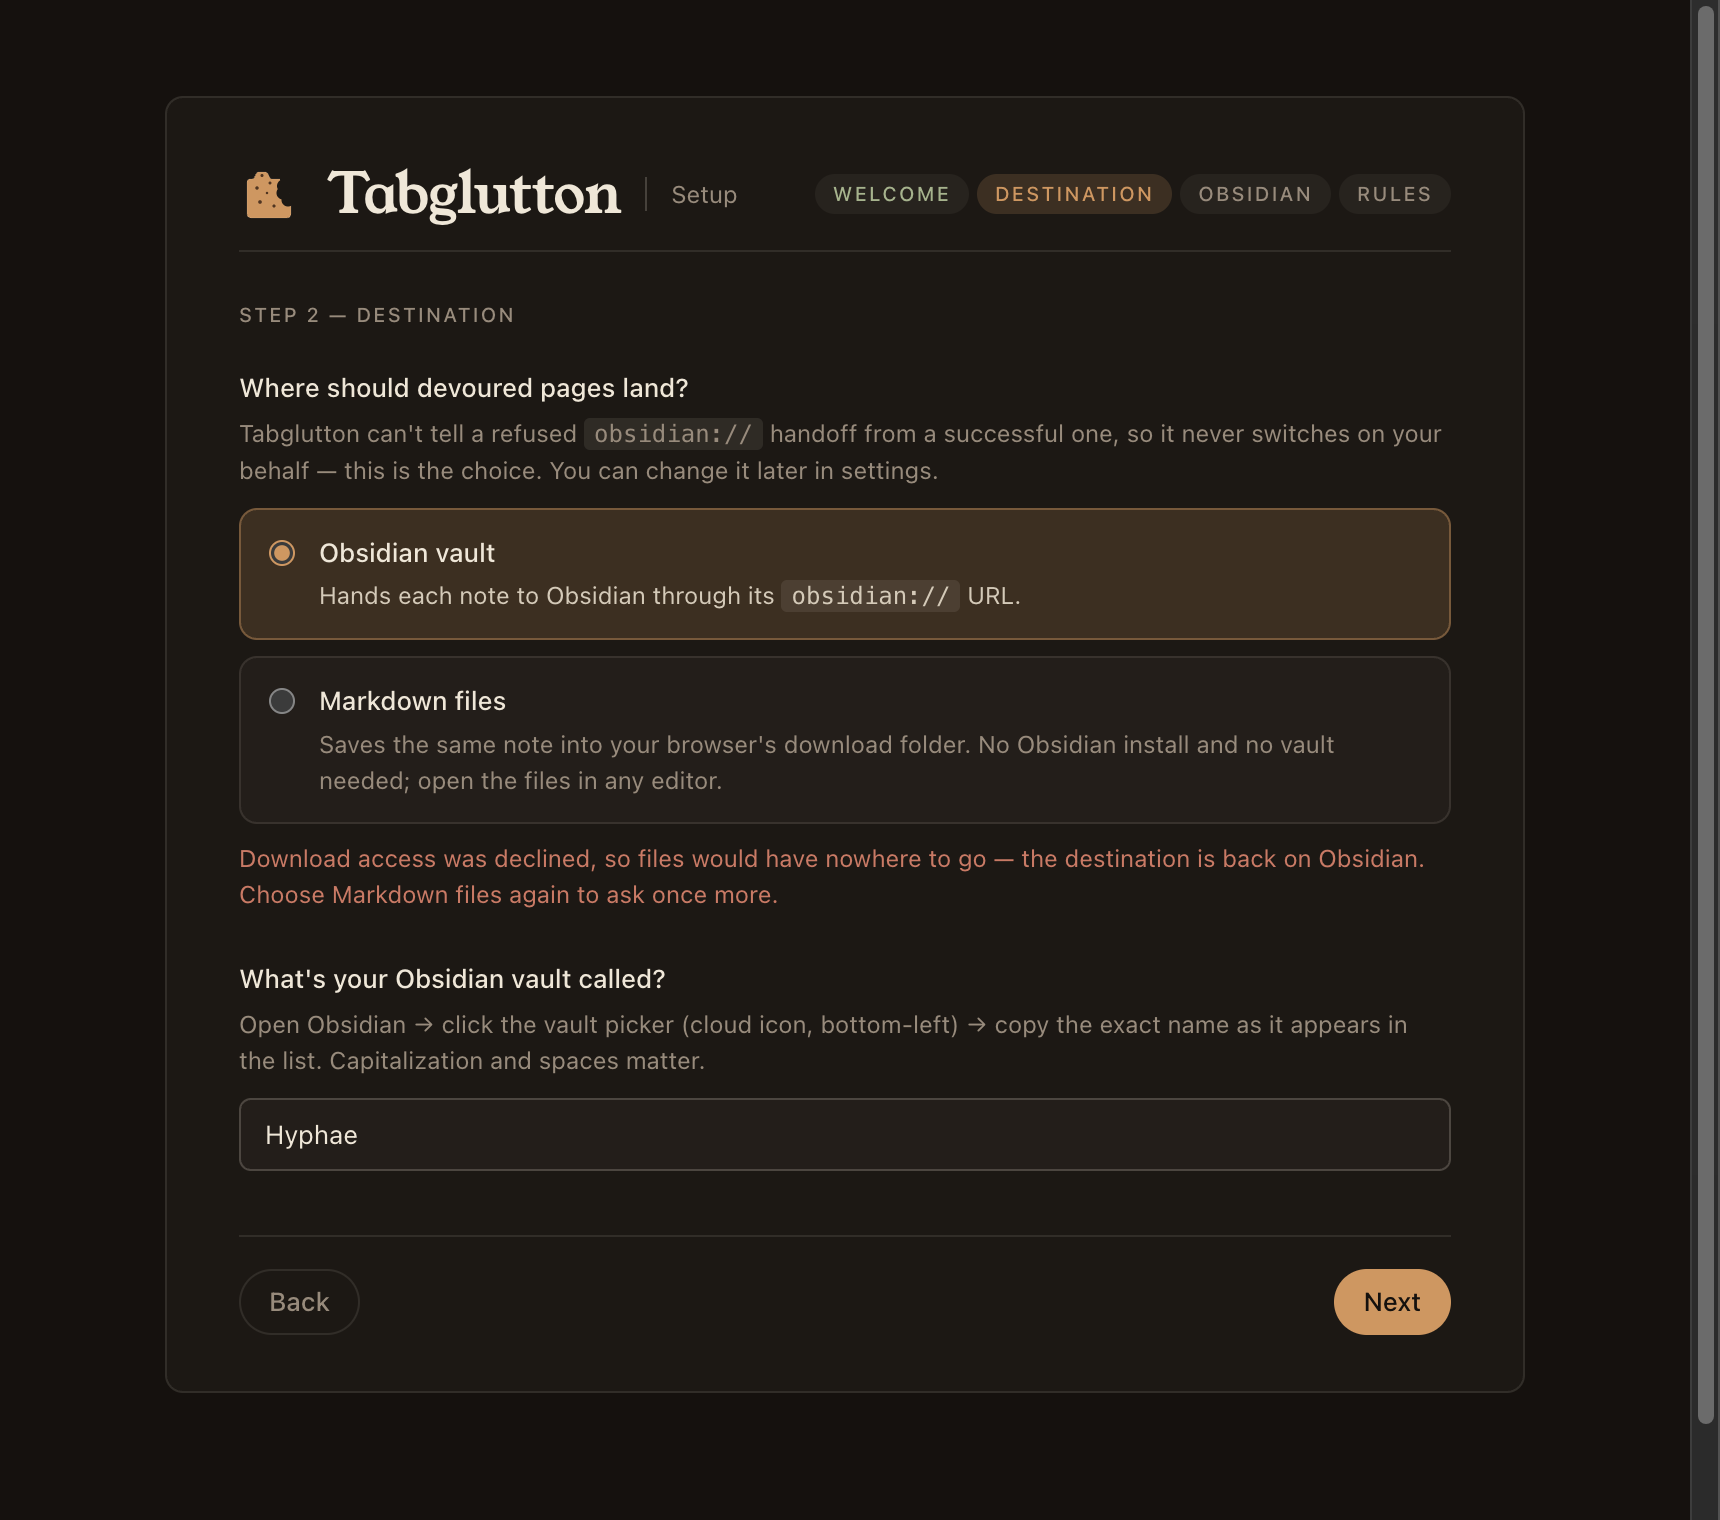
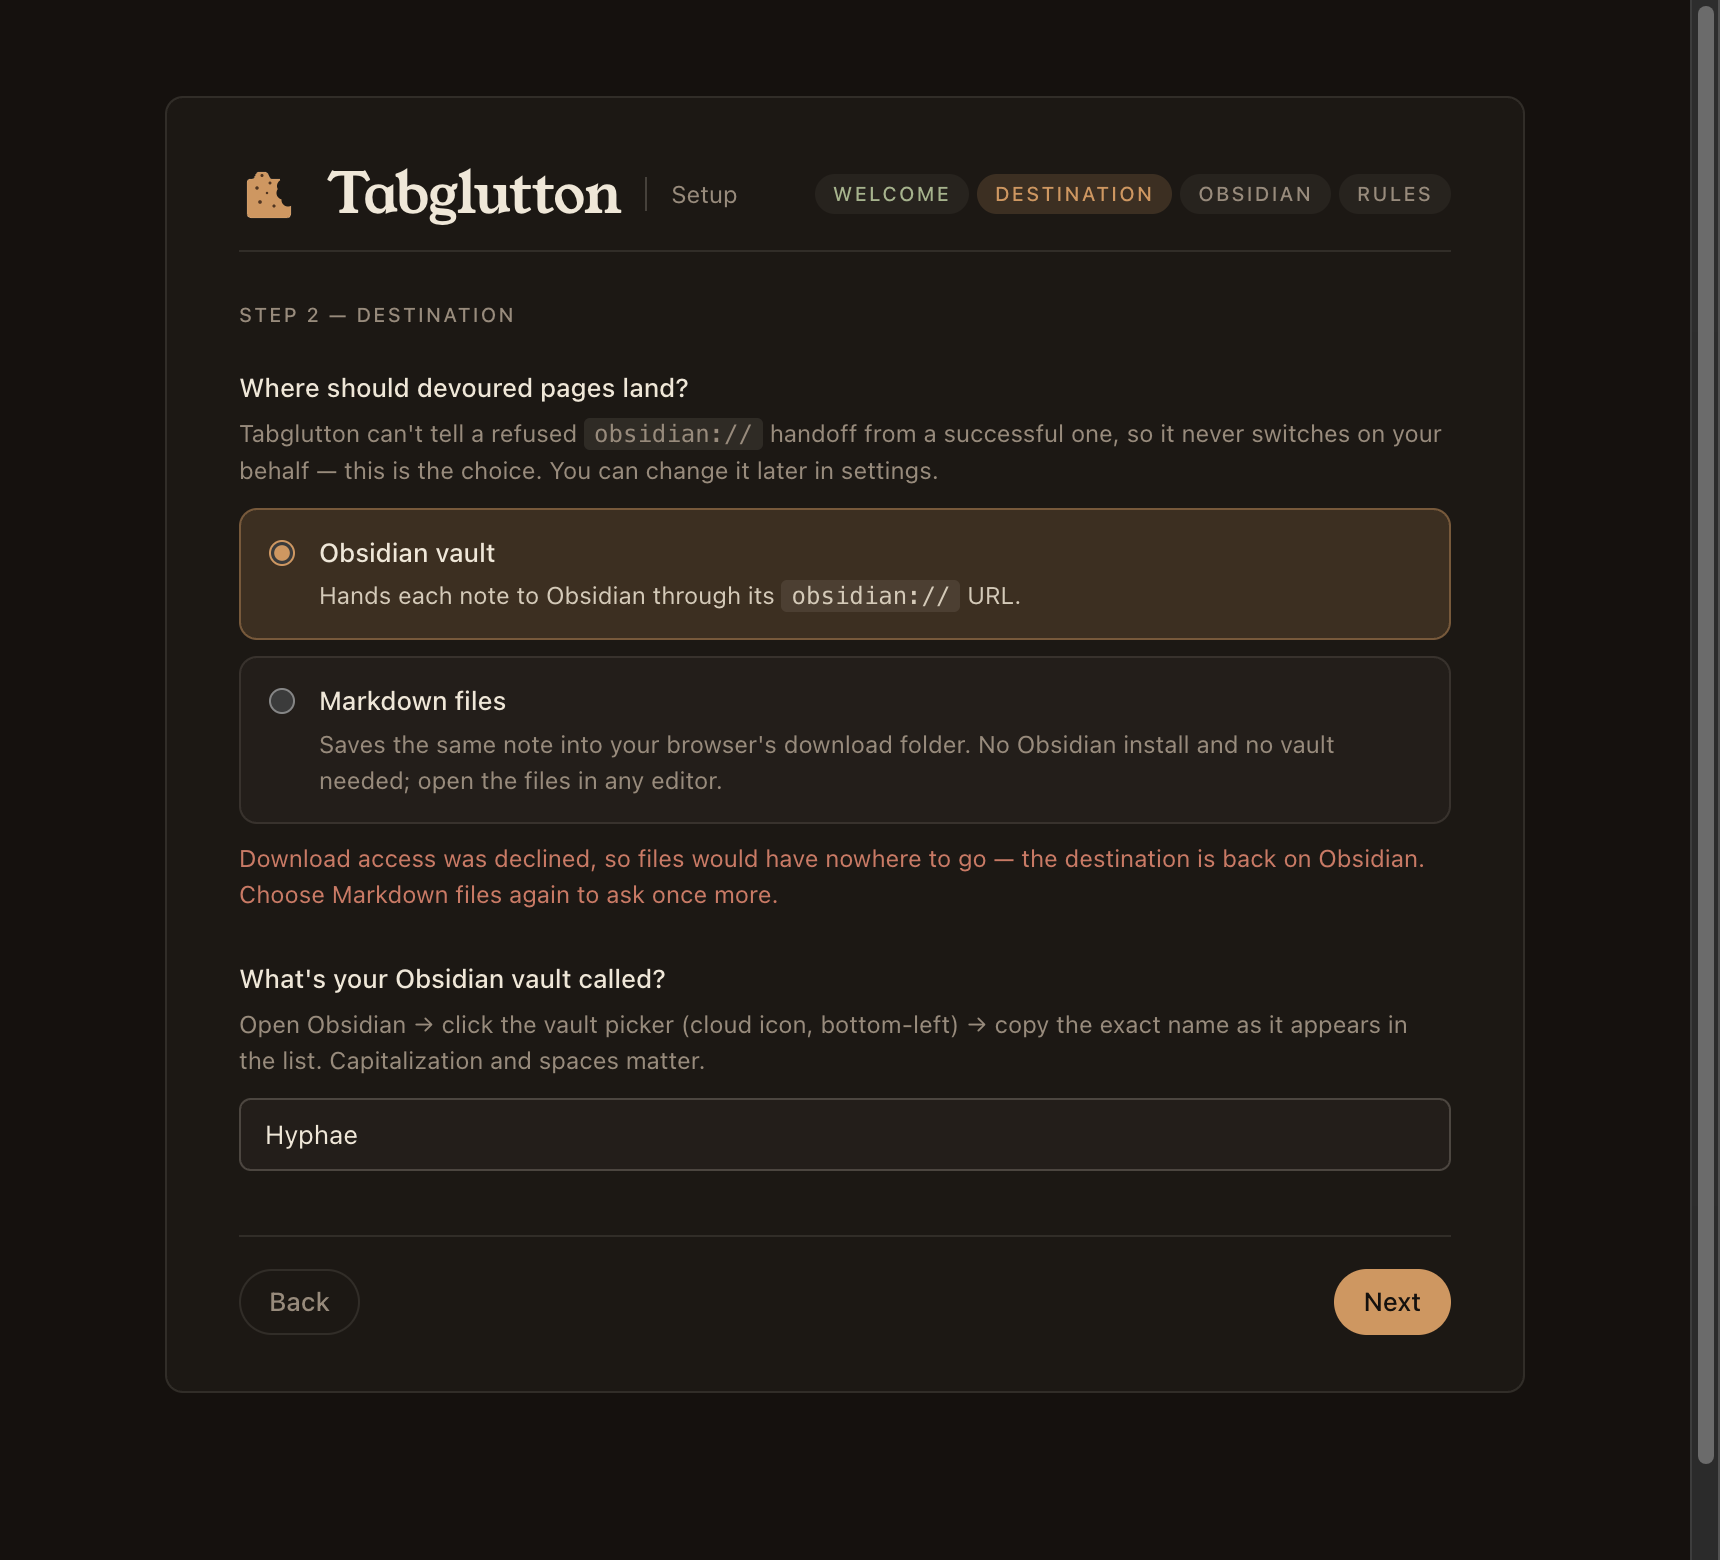
Handle a downloads grant that is refused, revoked, or answered late
Three fixes from the review pass, all in onboarding's destination step.

A stored file destination is now re-checked against the grant on load: it can
be revoked from the browser's own extension settings, and re-selecting an
already-checked radio fires no change event, so a user arriving in that state
had no way to ask for it back. Revert, explain, and persist -- the radio is
then unchecked and the remedy is clickable.

The async change handler carries a generation token. Gecko's doorhanger is
non-modal, so a second choice can land while the first request is pending; an
older one resolving late would write its verdict over a selection it no longer
describes.

The warning is a live region rather than a hidden element. A role=status that
is hidden until it has text is not in the accessibility tree when the text
arrives, so the revert went unannounced. It stays in the DOM and collapses to
no height while empty.

diff --git a/onboarding/onboarding.ts b/onboarding/onboarding.ts
@@ -2,7 +2,7 @@
 // webextension-polyfill global first (see writePolyfillGlobal in build.ts). A
 // bare "webextension-polyfill" import here would not set the global anyway.
 import { type ClipDestination, loadSettings, saveSettings } from "../src/storage.js";
-import { requestDownloads } from "../src/permissions.js";
+import { hasDownloads, requestDownloads } from "../src/permissions.js";
 import { BUILT_IN_RULES } from "../src/site-rules.js";
 import { IS_CHROME } from "../src/target.js";
 import { vaultWarningFor } from "../src/vault-warning.js";
@@ -112,21 +112,46 @@ function selectObsidian(): void {
   for (const radio of destinationRadios) radio.checked = radio.value === "obsidian";
 }
 
+const DOWNLOADS_REFUSED =
+  "Download access was declined, so files would have nowhere to go — the destination is back on Obsidian. Choose Markdown files again to ask once more.";
+const DOWNLOADS_REVOKED =
+  "Tabglutton no longer has permission to save downloads, so the destination is back on Obsidian. Choose Markdown files to grant it again.";
+
+/**
+ * The region is never `hidden`. A `role="status"` element that is hidden until
+ * it has text is not in the accessibility tree when the text arrives, so a
+ * screen-reader user would have their destination reverted with nothing spoken.
+ * Empty, it collapses to no height — see the `:empty` rule in onboarding.css.
+ */
+function setDownloadsWarning(message: string): void {
+  downloadsWarning.textContent = message;
+}
+
+/**
+ * A pending grant request does not block the page — Gecko's doorhanger is
+ * non-modal — so a second choice can land while the first is still waiting.
+ * Only the newest request gets to speak for the page; an older one resolving
+ * late would otherwise write its verdict over a selection it no longer
+ * describes. The persisted value is written by the newest handler either way.
+ */
+let destinationGeneration = 0;
+
 // `downloads` is optional, and the destination click is the one moment in
 // onboarding a user gesture exists to ask for it — the background page, where
 // the writing happens, never has one. A refusal reverts to Obsidian rather than
 // persisting a choice whose every clip could only fail, and says how to ask
-// again; the same trade the options page makes, so nobody is left on a dead end.
+// again. Reverting is also what makes that remedy possible: the file radio goes
+// back to unchecked, so clicking it fires `change` again. Re-selecting a radio
+// that is already checked fires nothing at all.
 for (const radio of destinationRadios) {
   radio.addEventListener("change", () => {
     void (async () => {
+      const generation = ++destinationGeneration;
       // First await in the handler; see requestDownloads on why nothing precedes it.
       const refused = selectedDestination() === "file" && !(await requestDownloads());
+      if (generation !== destinationGeneration) return;
       if (refused) selectObsidian();
-      downloadsWarning.textContent = refused
-        ? "Download access was declined, so files would have nowhere to go — the destination is back on Obsidian. Choose Markdown files again to ask once more."
-        : "";
-      downloadsWarning.hidden = !refused;
+      setDownloadsWarning(refused ? DOWNLOADS_REFUSED : "");
       applyDestination();
       // Also written on Done; persisted here so a walkthrough abandoned midway
       // does not silently keep the destination the user just moved off.
@@ -257,6 +282,17 @@ async function init(): Promise<void> {
     radio.checked = radio.value === settings.clipDestination;
   }
   vaultInput.value = settings.obsidianVault;
+  // A stored file destination is only real while the grant behind it is, and
+  // that grant can be taken back from the browser's own extension settings.
+  // Rendering it as a working choice would send the user out of onboarding into
+  // a destination whose every clip fails — and re-selecting the already-checked
+  // radio fires no `change`, so they would have no way to ask for it back.
+  // Revert, say why, and persist: the radio is then unchecked and clickable.
+  if (settings.clipDestination === "file" && !(await hasDownloads())) {
+    selectObsidian();
+    setDownloadsWarning(DOWNLOADS_REVOKED);
+    await saveSettings({ clipDestination: "obsidian" });
+  }
   applyDestination();
   updateVaultWarning();
   renderRules();

diff --git a/onboarding/onboarding.css b/onboarding/onboarding.css
@@ -326,6 +326,15 @@ input::placeholder {
   margin-top: 0;
 }
 
+/* The refusal notice stays in the DOM even when there is nothing to say, so it
+   is a live region by the time it has something — `hidden` would take it out of
+   the accessibility tree and the announcement with it. With no content it has
+   no height, and the negative margin cancels the flex gap it would still be
+   allotted, so an empty region costs exactly nothing. */
+.radio-stack > .vault-warning:empty {
+  margin-top: calc(-1 * var(--space-2));
+}
+
 code {
   font-family: var(--font-mono);
   font-size: var(--fs-small);

diff --git a/onboarding/onboarding.html b/onboarding/onboarding.html
@@ -70,7 +70,10 @@
                 </small>
               </span>
             </label>
-            <p id="downloadsWarning" class="vault-warning" role="status" hidden></p>
+            <!-- Never `hidden`: a role="status" that is hidden until it has
+                 text is not a live region when the text arrives. Empty, it
+                 collapses to nothing (see the :empty rule in onboarding.css). -->
+            <p id="downloadsWarning" class="vault-warning" role="status"></p>
           </div>
         </div>
 
